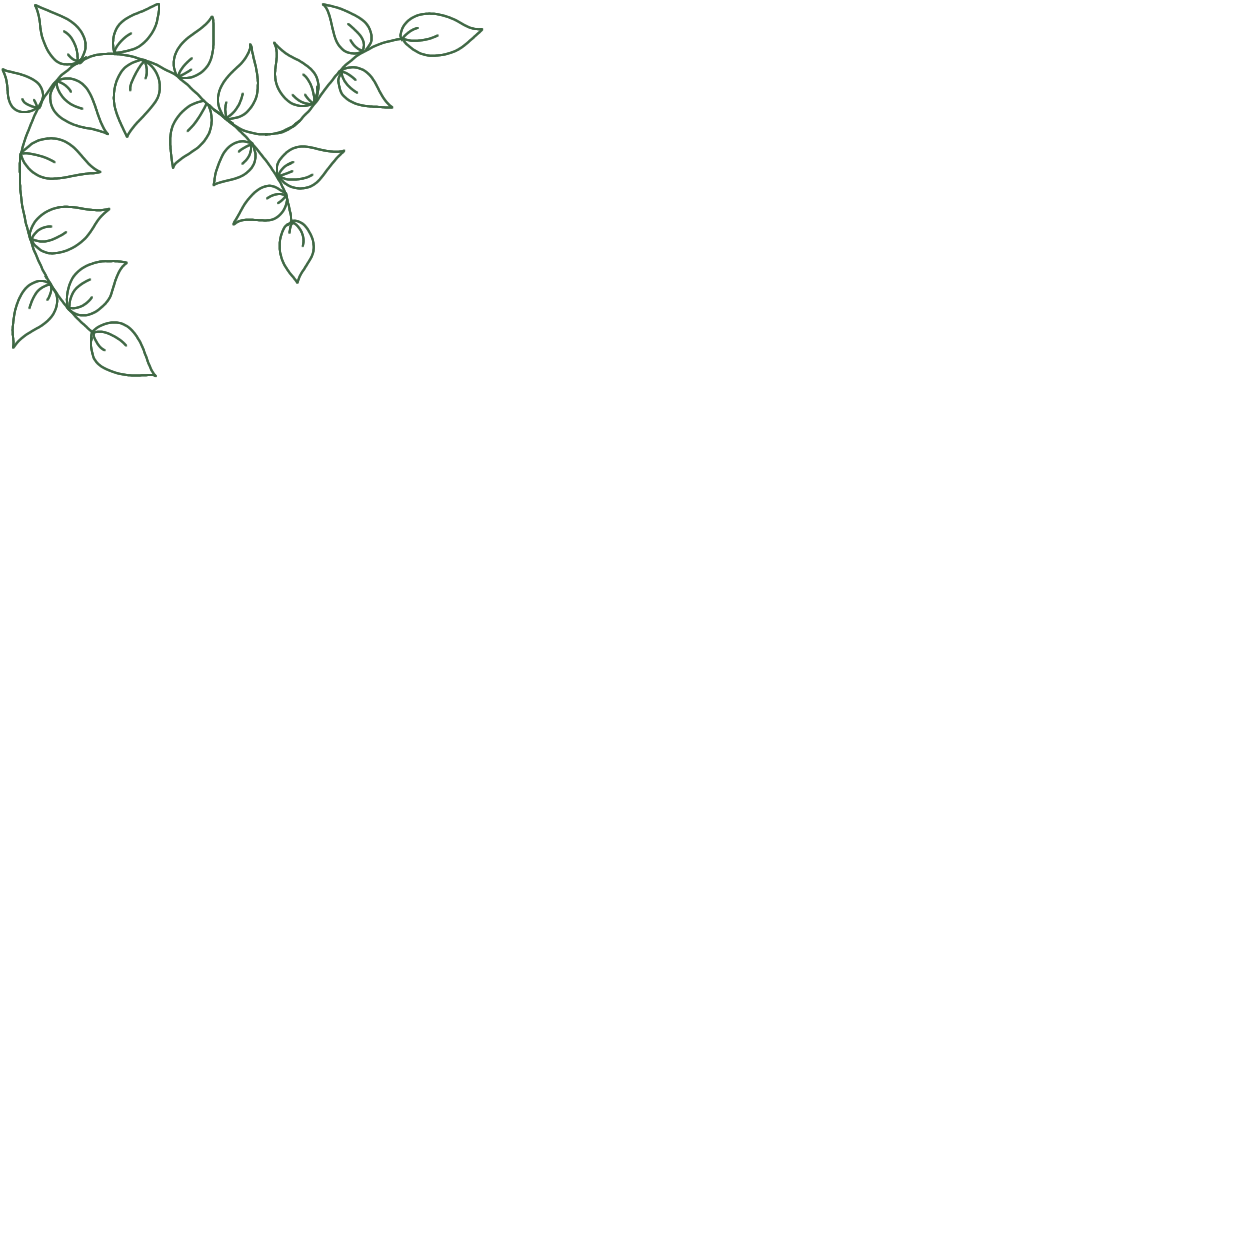
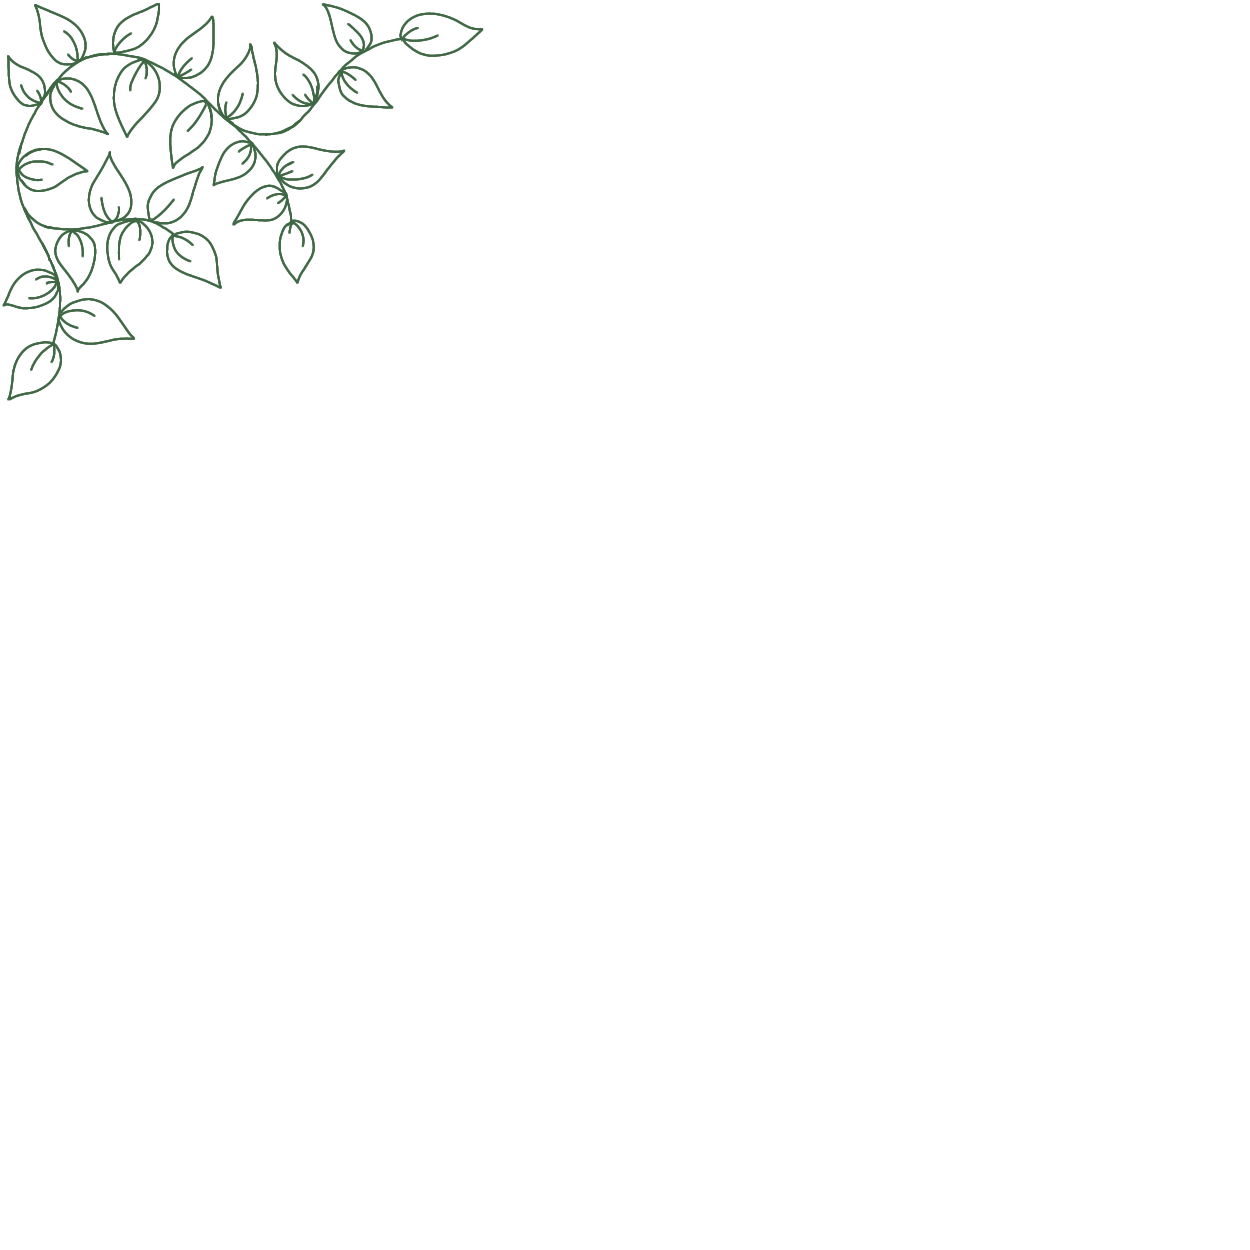
registry image

Changed region(s): [[0.0, 0.0312, 0.156, 0.312]]

diff --git a/registry.html b/registry.html
@@ -30,7 +30,7 @@
   <a href="rsvp.html">RSVP</a>
 </nav>
 
-<main>
+<main class="page-wrapper">
 
   <section class="registry">
 
@@ -47,6 +47,9 @@
       Visit Our Zola Registry
     </a>
   </section>
+
+  <img src="images/reg-top.png" class="corner top" alt="">
+  <img src="images/reg-bottom.png" class="corner bottom" alt="">
 
 </main>
 

diff --git a/css/styles.css b/css/styles.css
@@ -178,7 +178,22 @@ h1 {
   height: auto;
   z-index: -1;
   width: 65%;
+}
+
+.corner.top {
+  top: 0;
+  left: 50%;
+  transform: translate(-45%, 0%);
   height: auto;
+  width: 80rem;
+}
+
+.corner.bottom {
+  bottom: 0;
+  left: 50%;
+  transform: translate(-45%, 0%);
+  height: auto;
+  width: 80rem;
 }
 
 .corner.side-right {
